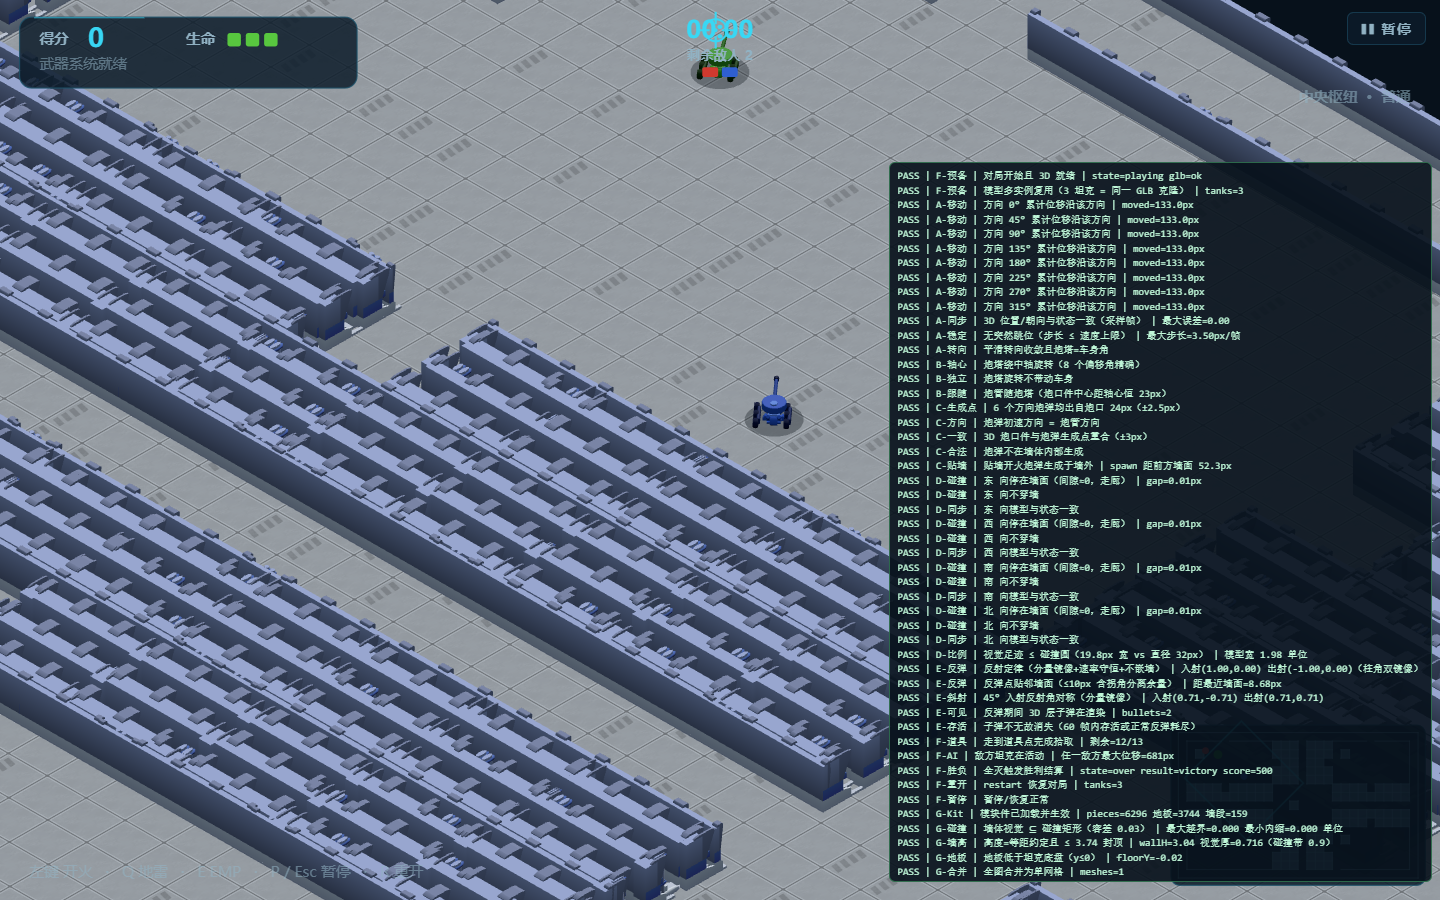
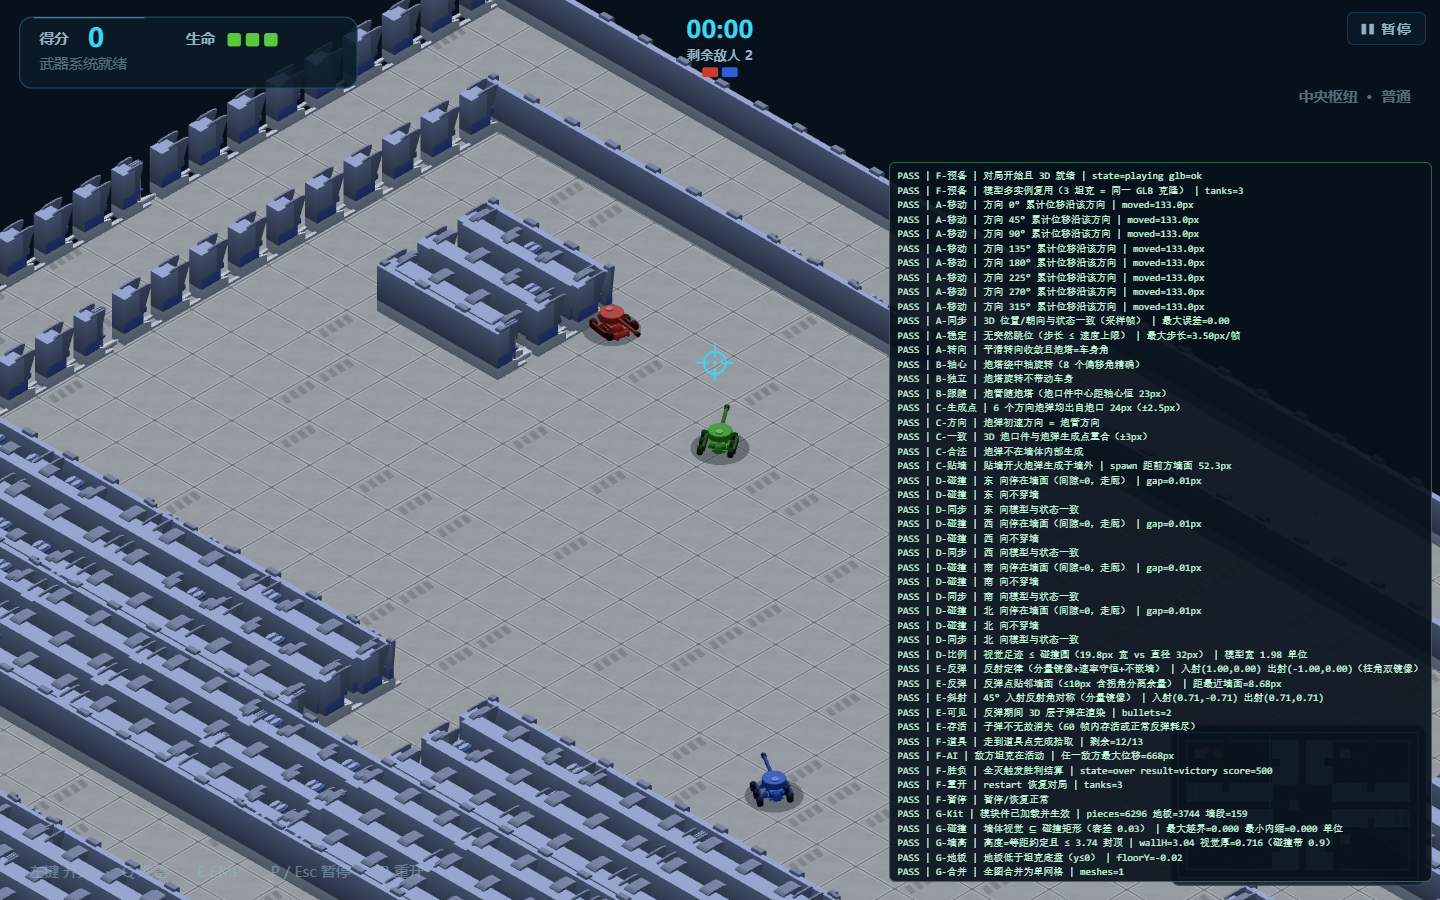
修复：地图边缘视野越界露黑边/玩家出画面 + 移除小地图视野蓝框（用户实测反馈）
根因：3D 相机目标取等距相机中心——拉近后等距相机在边缘钳制时会偏离玩家半屏，
玩家开出缩小后的可视带（上方 1/4~1/3 黑色虚空、小地图上玩家点跑出视野框），
表现为'无法前往上方区域、视野不跟随'。等距投影与 3D dimetric 投影的边缘视差
（12~57px）使任何基于等距空间的钳制都不精确。

修复（3D 投影空间精确解）：正交相机下地面位移→屏幕位移是精确线性映射，
两个探针点求 2×2 矩阵 K；策略为'玩家居中优先，视口露出地图包围盒外才钳到边'
（地图小于视口则整体居中）——玩家永远在画面内且无虚空。
关键坑：probe 投影前必须手动更新 camera.matrixWorldInverse（project() 依赖）。

小地图：按用户要求 3D 模式隐藏视野四边形（minimapHideViewRect，2D 原版保留）。

防回归断言：H-跟随 新增'玩家始终在 3D 画面内（留白≥16px）'（驱动全程采样）；
H-可达 最远端传送点加屏幕留白校验——13 图全部通过（修复前该断言抓到 -197px）。

验收：13/13 rollout + 7 摆位 + 69/69 + proto 3/3 全绿；视觉核验：贴墙坦克完整在画、
四周无黑虚空、小地图无蓝框（edge-check/mmap-check）。

diff --git a/js/three-proto.js b/js/three-proto.js
@@ -559,30 +559,73 @@ import * as BufferGeometryUtils from 'three/addons/utils/BufferGeometryUtils.js'
           renderer.setSize(game.viewW, game.viewH, false);
         }
       } else {
-        const cw = iso.unproject(game.camera.x + game.viewW / 2, game.camera.y + game.viewH / 2);
-        tmpV.set(cw.x / PX, 0, cw.y / PX);
-        camera.position.copy(tmpV).addScaledVector(camDir, 200);
-        camera.lookAt(tmpV);
-        // 视野拉近：正交视口按 VIEW_ZOOM 缩小（世界可见区变小、细节放大）；
-        // ?zoom= 可调（1=与等距版一致）。输入映射走 3D 射线逆投影，天然一致
-        const pxPerUnit = Math.SQRT2 * iso.u * PX * VIEW_ZOOM;
-        const top = game.viewH / (2 * pxPerUnit);
-        if (Math.abs(camera.top - top) > 1e-6 || camera.aspect !== game.viewW / game.viewH) {
-          camera.top = top; camera.bottom = -top;
+        /* 3D 跟随（精确解）：目标=玩家世界点，地图四角包围盒钳制在视口内。
+         * 正交相机下"地面世界位移→屏幕位移"是精确线性映射（两个探针点求 2×2
+         * 矩阵），不借道等距投影（两者边缘视差 12~57px，会把玩家挤出画面） */
+        const pl = menu ? null : game.player;
+        const top0 = game.viewH / (2 * Math.SQRT2 * iso.u * PX * VIEW_ZOOM);
+        if (Math.abs(camera.top - top0) > 1e-6 || camera.aspect !== game.viewW / game.viewH) {
+          camera.top = top0; camera.bottom = -top0;
           camera.aspect = game.viewW / game.viewH;
-          camera.left = -top * camera.aspect; camera.right = top * camera.aspect;
+          camera.left = -top0 * camera.aspect; camera.right = top0 * camera.aspect;
           camera.updateProjectionMatrix();
           renderer.setSize(game.viewW, game.viewH, false);
         }
+        const tx0 = pl && pl.alive ? pl.x / PX : maze.width / PX / 2;
+        const tz0 = pl && pl.alive ? pl.y / PX : maze.height / PX / 2;
+        // 先对准玩家（菜单对准地图中心），探针求 K 矩阵
+        tmpV.set(tx0, 0, tz0);
+        camera.position.copy(tmpV).addScaledVector(camDir, 200);
+        camera.lookAt(tmpV);
+        camera.updateMatrixWorld();
+        camera.matrixWorldInverse.copy(camera.matrixWorld).invert();   // project() 依赖逆矩阵
+        const prj = (wx, wz) => {
+          projV.set(wx, 0, wz).project(camera);
+          return { x: (projV.x * 0.5 + 0.5) * game.viewW, y: (-projV.y * 0.5 + 0.5) * game.viewH };
+        };
+        const s0 = prj(tx0, tz0);
+        const Kx = { x: s0.x - prj(tx0 + 1, tz0).x, y: s0.y - prj(tx0 + 1, tz0).y };   // 世界 +x 单位 → 屏幕px（取负号=位移方向）
+        const Kz = { x: s0.x - prj(tx0, tz0 + 1).x, y: s0.y - prj(tx0, tz0 + 1).y };
+        // 地图四角相对玩家的屏幕偏移 → 包围盒
+        const MW = maze.width / PX, MH = maze.height / PX;
+        let b0x = 1e9, b1x = -1e9, b0y = 1e9, b1y = -1e9;
+        for (const [wx, wz] of [[0, 0], [MW, 0], [0, MH], [MW, MH]]) {
+          const ox = (wx - tx0) * -Kx.x + (wz - tz0) * -Kz.x;   // 角点屏幕 − 玩家屏幕
+          const oy = (wx - tx0) * -Kx.y + (wz - tz0) * -Kz.y;
+          b0x = Math.min(b0x, ox); b1x = Math.max(b1x, ox);
+          b0y = Math.min(b0y, oy); b1y = Math.max(b1y, oy);
+        }
+        // 屏幕平移策略：地图覆盖视口 → 玩家居中、视口露出地图外才钳到边（无虚空）；
+        // 地图小于视口 → 地图整体居中
+        let dSx = 0, dSy = 0;
+        if (b1x - b0x >= game.viewW) {
+          if (s0.x + b0x > 0) dSx = -(s0.x + b0x);                       // 左缘露空 → 视口贴地图左缘
+          else if (s0.x + b1x < game.viewW) dSx = game.viewW - (s0.x + b1x);
+        } else dSx = (game.viewW - 2 * s0.x - b0x - b1x) / 2;
+        if (b1y - b0y >= game.viewH) {
+          if (s0.y + b0y > 0) dSy = -(s0.y + b0y);
+          else if (s0.y + b1y < game.viewH) dSy = game.viewH - (s0.y + b1y);
+        } else dSy = (game.viewH - 2 * s0.y - b0y - b1y) / 2;
+        // 屏幕平移 dS = (Δx·Kx + Δz·Kz)（相机目标移动 Δ 时全体屏幕点反向移动）
+        const det = Kx.x * Kz.y - Kz.x * Kx.y;
+        let dxT = 0, dzT = 0;
+        if (Math.abs(det) > 1e-9 && (dSx !== 0 || dSy !== 0)) {
+          dxT = (dSx * Kz.y - dSy * Kz.x) / det;
+          dzT = (Kx.x * dSy - Kx.y * dSx) / det;
+        }
+        tmpV.set(tx0 + dxT, 0, tz0 + dzT);
+        camera.position.copy(tmpV).addScaledVector(camDir, 200);
+        camera.lookAt(tmpV);
+        report.camDebug = { s0x: s0.x.toFixed(0), s0y: s0.y.toFixed(0),
+          bbox: [b0x.toFixed(0), b1x.toFixed(0), b0y.toFixed(0), b1y.toFixed(0)],
+          dS: [dSx.toFixed(0), dSy.toFixed(0)], dT: [dxT.toFixed(2), dzT.toFixed(2)],
+          Kx: [Kx.x.toFixed(1), Kx.y.toFixed(1)], Kz: [Kz.x.toFixed(1), Kz.y.toFixed(1)] };
       }
       if (game.input.viewMapper !== viewMapper3d) game.input.setViewMapper(viewMapper3d);
 
-      /* 3D 视野供数：小地图常驻 + 真实可见区四边形（屏幕四角落地逆投影） */
+      /* 3D 视野供数：小地图常驻；视野四边形按用户要求隐藏（2D 原版保留） */
       game.forceMinimap = true;
-      game.viewWorldRect = [
-        viewMapper3d(0, 0), viewMapper3d(game.viewW, 0),
-        viewMapper3d(game.viewW, game.viewH), viewMapper3d(0, game.viewH)
-      ];
+      game.minimapHideViewRect = true;
 
       /* 坦克（实例复用：坦克数动态增减，池跟随 game.tanks） */
       if (protoRoot && !menu) {

diff --git a/tests/integration-3d.page.js b/tests/integration-3d.page.js
@@ -511,7 +511,7 @@
         }
 
         /* ① 持续机动采样（10s 直驱 + 停滞切向绕行）：证明操控持续产生位移 */
-        let maxCamErr = 0, total = 0, detour = 0;
+        let maxCamErr = 0, total = 0, detour = 0, onScreenMin = 1e9;
         for (let seg = 0; seg < 20; seg++) {
           let dx = tgt[0] - p.x, dy = tgt[1] - p.y;
           const a0 = Math.atan2(dy, dx) + detour * (Math.PI / 3);
@@ -528,9 +528,16 @@
           maxCamErr = Math.max(maxCamErr,
             Math.abs(game.camera.x - iso.clampCamX(pp.x)),
             Math.abs(game.camera.y - iso.clampCamY(pp.y)));
+          // 3D 可视带必须覆盖玩家（边缘钳制后走出画面=地图边缘"不可达"的根因）
+          game.render();
+          const sc = P3.project(p.x, p.y);
+          onScreenMin = Math.min(onScreenMin,
+            sc.x, game.viewW - sc.x, sc.y, game.viewH - sc.y);
         }
         check('H-跟随 | 视野逐帧跟随玩家（含边界钳制，偏差 ≤6px=一帧尾随）', maxCamErr <= 6,
           '最大偏差=' + maxCamErr.toFixed(2) + 'px');
+        check('H-跟随 | 玩家始终在 3D 画面内（边缘留白 ≥16px）', onScreenMin >= 16,
+          '最小屏幕留白=' + onScreenMin.toFixed(0) + 'px');
         check('H-机动 | 持续机动（10s 累计 ≥250px，密走廊直线采样下限）', total >= 250,
           '累计=' + total.toFixed(0) + 'px');
 
@@ -542,12 +549,15 @@
           const d = Math.hypot(c.x - game.maze.width / 2, c.y - game.maze.height / 2);
           if (d > fd) { fd = d; far = c; }
         }
-        let standOk = false, moveOk = false, farCamOk = false;
+        let standOk = false, moveOk = false, farCamOk = false, farOnScreen = 0;
         if (far) {
           p.x = far.x; p.y = far.y; p.speed = 0; p.angle = p.aimAngle = 0;
           standOk = game.maze.isFree(p.x, p.y, p.radius - 0.5);
           game.camera.follow(p.x, p.y, game.maze.width, game.maze.height);
           if (game.isoActive) game.followIsoCamera();
+          game.render();                                    // 同步 3D 相机后测屏幕位置
+          const sc0 = P3.project(p.x, p.y);
+          farOnScreen = Math.min(sc0.x, game.viewW - sc0.x, sc0.y, game.viewH - sc0.y);
           // 朝最开阔方向机动（角落点朝地图中心的直线上常有墙）
           let bestA = 0, bestT = -1;
           for (let k = 0; k < 8; k++) {
@@ -567,7 +577,8 @@
         check('H-可达 | 最远端区域可站立且可机动', standOk && moveOk,
           (far ? '远点=(' + far.x.toFixed(0) + ',' + far.y.toFixed(0) + ')' : '无导航点')
           + ' 站立=' + standOk + ' 机动=' + moveOk);
-        check('H-可达 | 远端区域视野跟随', farCamOk, '');
+        check('H-可达 | 远端区域视野跟随（相机钳制 + 玩家在画面内）',
+          farCamOk && farOnScreen >= 16, '屏幕留白=' + farOnScreen.toFixed(0) + 'px');
 
         // 控制台无未处理错误（模块内 window error/unhandledrejection 捕获）
         check('H-控制台 | 无未处理 JS 错误', (P3.errors || []).length === 0,

diff --git a/js/game.js b/js/game.js
@@ -1528,10 +1528,11 @@ class Game {
       ctx.fillRect(mx + w.x * sx, my + w.y * sy, Math.max(0.9, w.w * sx), Math.max(0.9, w.h * sy));
     }
 
-    // 当前视野（等距模式：可见 iso 窗口四角逆投影为世界菱形）
+    // 当前视野（等距模式：可见 iso 窗口四角逆投影为世界菱形；
+    // minimapHideViewRect：3D 视图按需隐藏该指示框）
     ctx.strokeStyle = T.accentLine;
     ctx.lineWidth = 1.4;
-    if (this.isoActive && this.iso) {
+    if (this.isoActive && this.iso && !this.minimapHideViewRect) {
       // 视野四边形：3D 拉近时用 3D 层提供的真实可见区（viewWorldRect），
       // 缺省回退等距窗口四角逆投影
       const cs = (this.viewWorldRect && this.viewWorldRect.length === 4)
